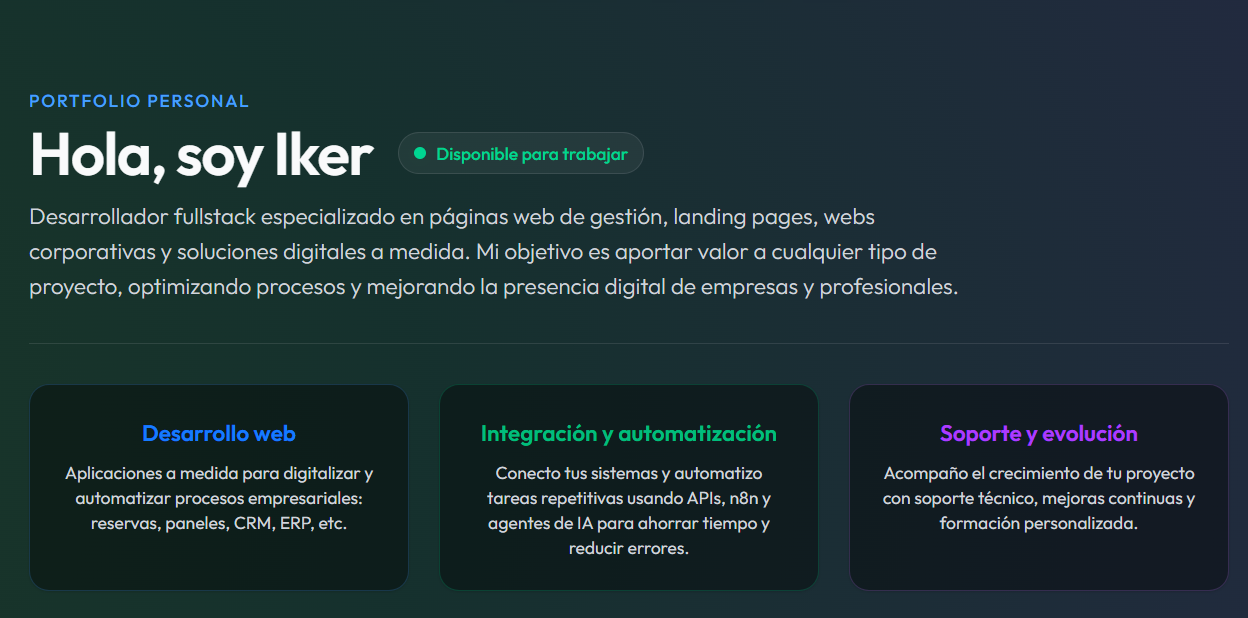
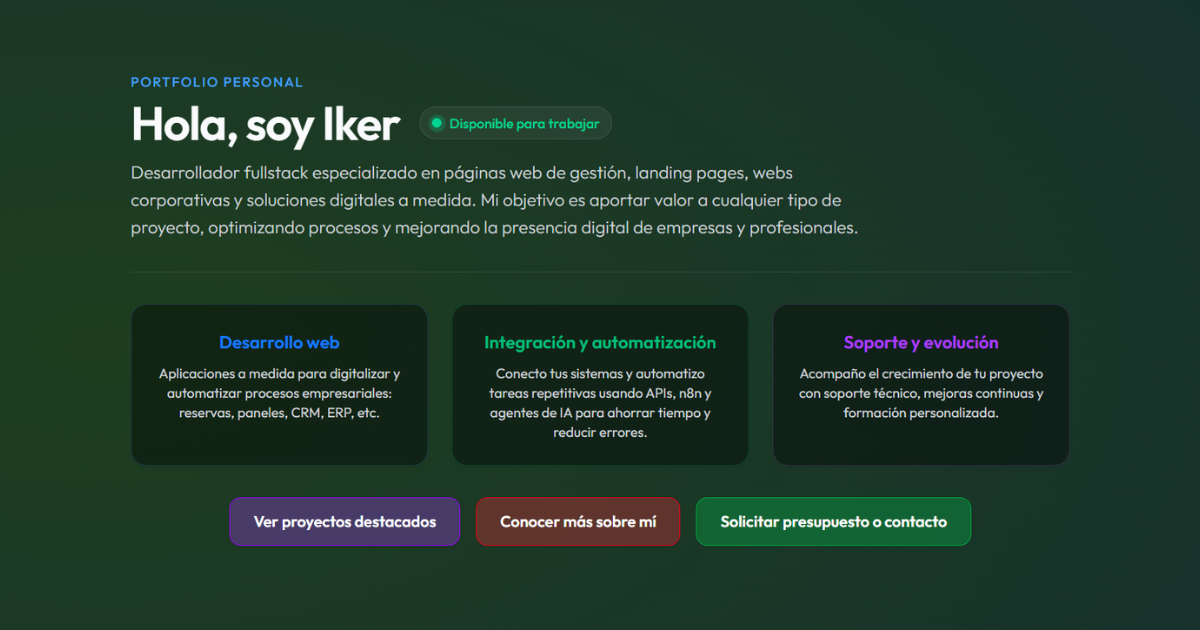
update Open Graph and Twitter Card image paths for consistency

diff --git a/index.html b/index.html
@@ -16,14 +16,14 @@
       <meta property="og:url" content="https://ikermuni.dev/">
         <meta property="og:title" content="Iker Muniozguren | Desarrollador Fullstack y soluciones digitales">
         <meta property="og:description" content="Desarrollo de aplicaciones de gestión, landing pages, webs corporativas y automatización de procesos. Experiencia en frontend, backend y soporte técnico. Portfolio profesional en Galdakao, Bizkaia.">
-      <meta property="og:image" content="https://ikermuni.dev/public/og-image.png">
+      <meta property="og:image" content="https://ikermuni.dev/og-image.png">
 
     <!-- Twitter Card -->
     <meta name="twitter:card" content="summary_large_image">
       <meta name="twitter:url" content="https://ikermuni.dev/">
         <meta name="twitter:title" content="Iker Muniozguren | Desarrollador Fullstack y soluciones digitales">
         <meta name="twitter:description" content="Desarrollo de aplicaciones de gestión, landing pages, webs corporativas y automatización de procesos. Experiencia en frontend, backend y soporte técnico. Portfolio profesional en Galdakao, Bizkaia.">
-      <meta name="twitter:image" content="https://ikermuni.dev/public/og-image.png">
+      <meta name="twitter:image" content="https://ikermuni.dev/og-image.png">
 
     <!-- Google / Schema.org -->
     <meta itemprop="name" content="Iker Muniozguren - Desarrollador Fullstack">
